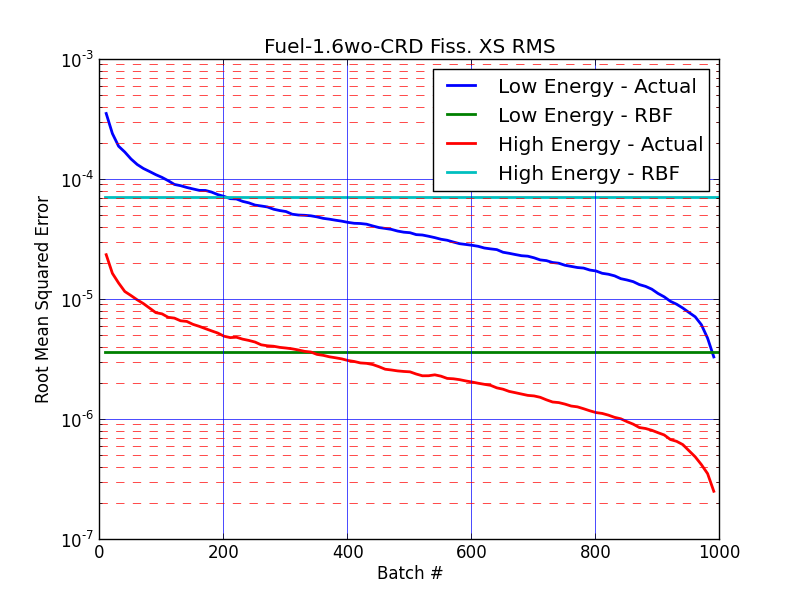
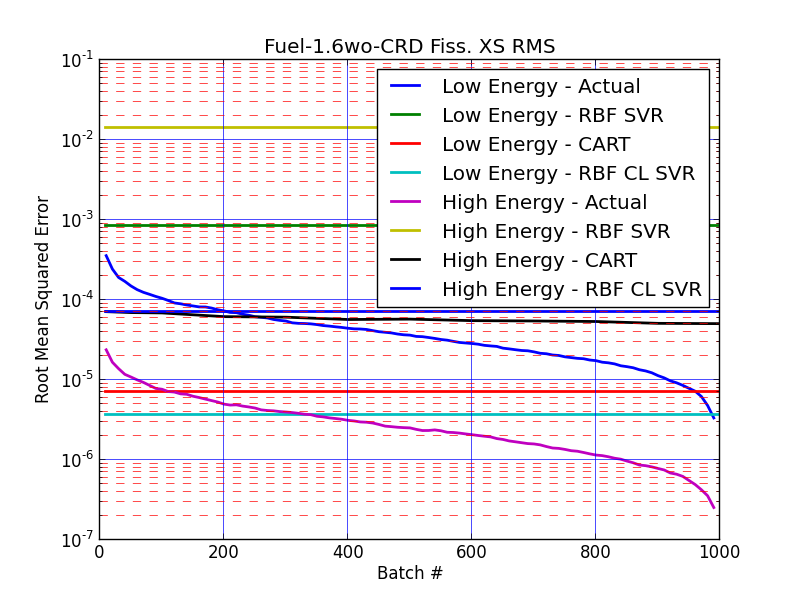
Updated model comparison with additional CART parameters and 2 plots

diff --git a/Model Comparison_Cross Validation.py b/Model Comparison_Cross Validation.py
@@ -38,6 +38,7 @@ gamma = [.001,.01,0.1,.2,.3,.4,.5,.6,.7,.8,.9,1,10]
 
 # CART parameters
 min_samples_leaf = [3,5,8,10,12,15,17,20,23]
+max_depth = [2,3,4,5,6]
 
 # Number of PCA components
 num_components = 3
@@ -147,7 +148,7 @@ for energy in energies:
         ############################   CART    #########################
         ################################################################
 
-        scores_CART = list()
+        scores_CART = [[] for x in range(3)]
         scores_std_CART = list()
                     
         # Extract features/targets for this cluster's samples
@@ -163,14 +164,34 @@ for energy in energies:
 
             this_scores = cross_validation.cross_val_score(model_CART, features, targets, \
                                                                scoring='mean_squared_error')
-            scores_CART.append(np.mean(this_scores))
+            scores_CART[0].append(0)
+            scores_CART[1].append(leaf)
+            scores_CART[2].append(np.mean(this_scores))
             scores_std_CART.append(np.std(this_scores))
 
-        best_leaf = min_samples_leaf[scores_CART.index(max(scores_CART))]
-        print 'For CART, best min samples per leaf is %f' %(best_leaf)
+        for depth in max_depth:
 
+            # Fit a CART model on these samples
+            model_CART = tree.DecisionTreeRegressor(max_depth=depth)
+            model_CART.fit(features, targets)
+
+            this_scores = cross_validation.cross_val_score(model_CART, features, targets, \
+                                                               scoring='mean_squared_error')
+            scores_CART[0].append(1)
+            scores_CART[1].append(depth)
+            scores_CART[2].append(np.mean(this_scores))
+            scores_std_CART.append(np.std(this_scores))
+
+        best_param_type = scores_CART[0][scores_CART[2].index(max(scores_CART[2]))]
+        best_param = scores_CART[1][scores_CART[2].index(max(scores_CART[2]))]
+        types = ['min samples per leaf', 'max depth']
+        print 'For CART, best parameter is %s of %0.2g' %(types[best_param_type], best_param)
+    
         # Retrain the model for the best parameters
-        model_CART = tree.DecisionTreeRegressor(min_samples_leaf=best_leaf)
+        if best_param_type == 0:
+            model_CART = tree.DecisionTreeRegressor(min_samples_leaf=best_param)
+        else:
+            model_CART = tree.DecisionTreeRegressor(max_depth=best_param)
         model_CART.fit(features, targets)
         
         ################################################################
@@ -228,8 +249,8 @@ for energy in energies:
                     scores_CLSVR[1].append(p)
                     scores_CLSVR[2].append(g)
 
-            best_c[c] = scores_CLSVR[1][scores_CLSVR.index(max(scores_CLSVR))]
-            best_gamma[c] = scores_CLSVR[2][scores_CLSVR.index(max(scores_CLSVR))]
+            best_c[c] = scores_CLSVR[1][scores_CLSVR[0].index(max(scores_CLSVR[0]))]
+            best_gamma[c] = scores_CLSVR[2][scores_CLSVR[0].index(max(scores_CLSVR[0]))]
    
             # Retrain the model for the best parameters
             models_CLSVR[c] = SVR(kernel=kernel, C=best_c[c], gamma=best_gamma[c])
@@ -238,7 +259,7 @@ for energy in energies:
         print 'In CL SVR, the best gammas are: %0.3g, %0.3g, %0.3g, %0.3g, %0.3g, %0.3g' \
               %(best_gamma[0], best_gamma[1], best_gamma[2], best_gamma[3], \
                 best_gamma[4], best_gamma[5])
-        print 'In CL SVR, the best Cs are: %0.3g, %0.3g, %0.3g, %0.3g, %0.3g, %0.3g' \
+        print 'In CL SVR, the best Cs are: %0.3g, %0.3g %0.3g, %0.3g, %0.3g, %0.3g' \
               %(best_c[0], best_c[1], best_c[2], best_c[3], \
                 best_c[4], best_c[5])
 
@@ -367,28 +388,49 @@ for energy in energies:
 ###########################    PLOTS   #########################
 ################################################################
 
-# Plot the RMS for this tally, energy
-count = 0
-for energy in energies:
-    plt.semilogy(rms_ref['Batches'],
-             rms_ref[assembly][energy][tally][...], linewidth=2)
-    plt.semilogy(batches, rms_SVR[count], linewidth=2)
-    plt.semilogy(batches, rms_CART[count], linewidth=2)
-    plt.semilogy(batches, rms_CLSVR[count], linewidth=2)
-    count = count + 1
+# Plot the RMS for this tally, low energy
+
+energy = 'Low Energy'
+plt.semilogy(rms_ref['Batches'],rms_ref[assembly][energy][tally][...], linewidth=2)
+plt.semilogy(batches, rms_SVR[0], linewidth=2)
+plt.semilogy(batches, rms_CART[0], linewidth=2)
+plt.semilogy(batches, rms_CLSVR[0], linewidth=2)
     
 # Annotate the plot
 plt.ylabel('Root Mean Squared Error')
 plt.xlabel('Batch #')
-plt.title(assembly + ' ' + tally + ' RMS')
+plt.title(assembly + ' ' + tally + ' Low Energy' + ' RMS')
 plt.grid(b=True, which='major', color='b', linestyle='-')
 plt.grid(b=True, which='minor', color='r', linestyle='--')
 plt.legend(['Low Energy - Actual','Low Energy - RBF SVR', 'Low Energy - CART',
-            'Low Energy - RBF CL SVR','High Energy - Actual', 'High Energy - RBF SVR',
-            'High Energy - CART', 'High Energy - RBF CL SVR'])
+            'Low Energy - RBF CL SVR'])
 
 # Save the plot
-filename = tally.replace('.', '').replace(' ', '-').lower()
+filename = 'Low-Energy' + tally.replace('.', '').replace(' ', '-').lower()
+filename = 'process/rms-plots/' + assembly + '/' + filename + '.png'
+plt.savefig(filename)
+
+plt.show()
+
+# Plot the RMS for this tally, high energy
+
+energy = 'High Energy'
+plt.semilogy(rms_ref['Batches'],rms_ref[assembly][energy][tally][...], linewidth=2)
+plt.semilogy(batches, rms_SVR[1], linewidth=2)
+plt.semilogy(batches, rms_CART[1], linewidth=2)
+plt.semilogy(batches, rms_CLSVR[1], linewidth=2)
+    
+# Annotate the plot
+plt.ylabel('Root Mean Squared Error')
+plt.xlabel('Batch #')
+plt.title(assembly + ' ' + tally + ' High Energy' + ' RMS')
+plt.grid(b=True, which='major', color='b', linestyle='-')
+plt.grid(b=True, which='minor', color='r', linestyle='--')
+plt.legend(['High Energy - Actual','High Energy - RBF SVR', 'High Energy - CART',
+            'High Energy - RBF CL SVR'])
+
+# Save the plot
+filename = 'High-Energy' + tally.replace('.', '').replace(' ', '-').lower()
 filename = 'process/rms-plots/' + assembly + '/' + filename + '.png'
 plt.savefig(filename)
 
